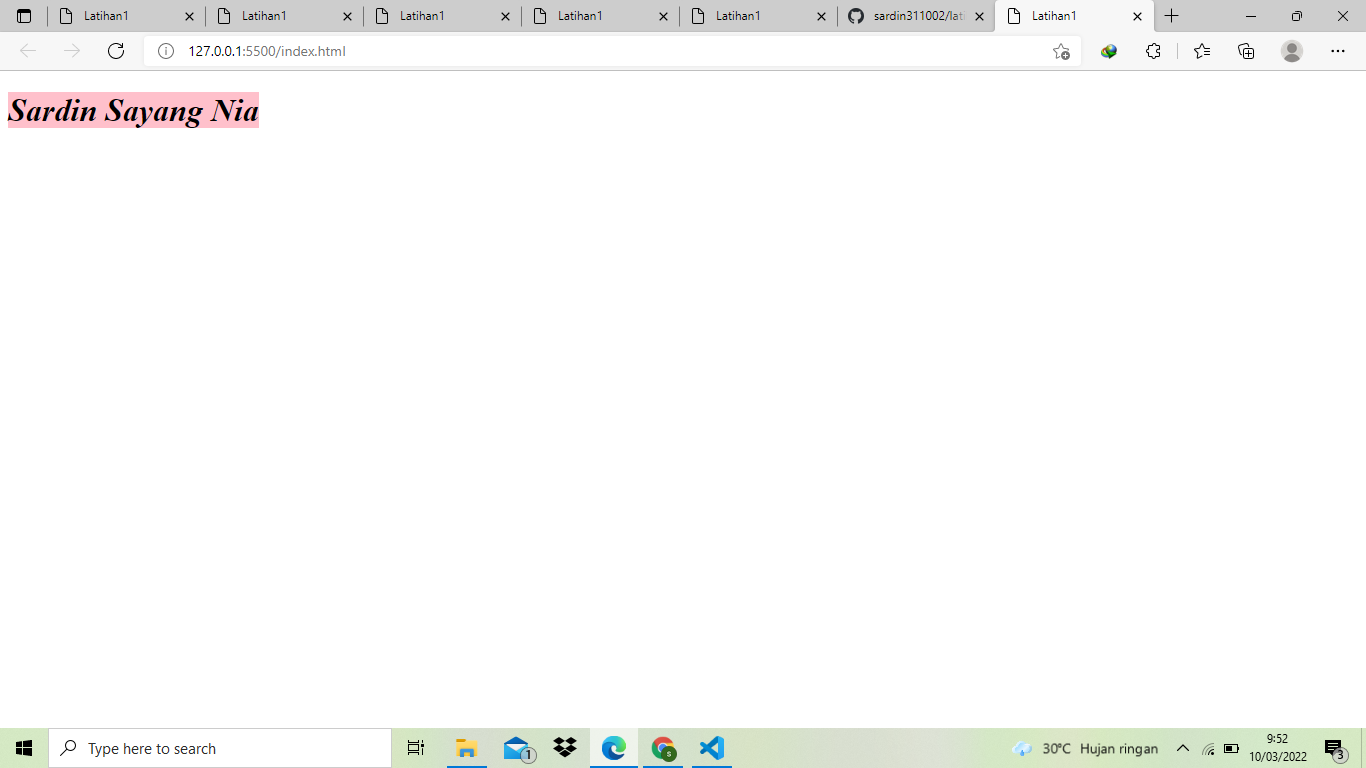
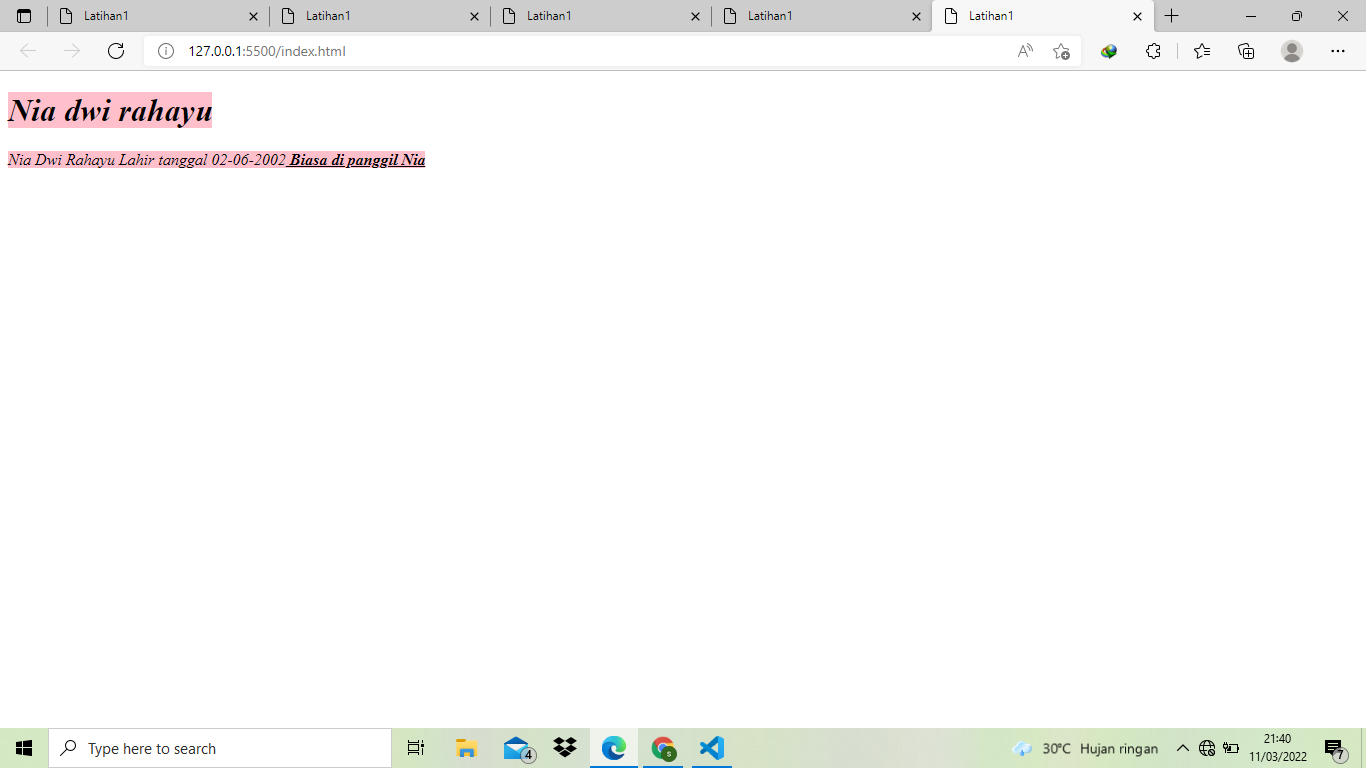
menambahkan gambar

diff --git a/index.html b/index.html
@@ -7,8 +7,8 @@
     <title>Latihan1</title>
 </head>
 <body>
-    <h1><b><i><span style="background-color: pink;">Sardin Sayang Nia</span></i></b></h1>
-<p><i><span style="background-color: pink;">Saya akan menjelaskan sujujurnya hati saya hanya untuk satu orang yaitu bidadari sehidup semati saya <b>Nia Dwi Rahayu</b></span></i></p>
+    <h1><b><i><span style="background-color: pink;">Nia dwi rahayu</span></i></b></h1>
+<p><i><span style="background-color: pink;">Nia Dwi Rahayu Lahir tanggal 02-06-2002<b><u> Biasa di panggil Nia</u></b></span></i></p>
 
 </body>
 </html>
